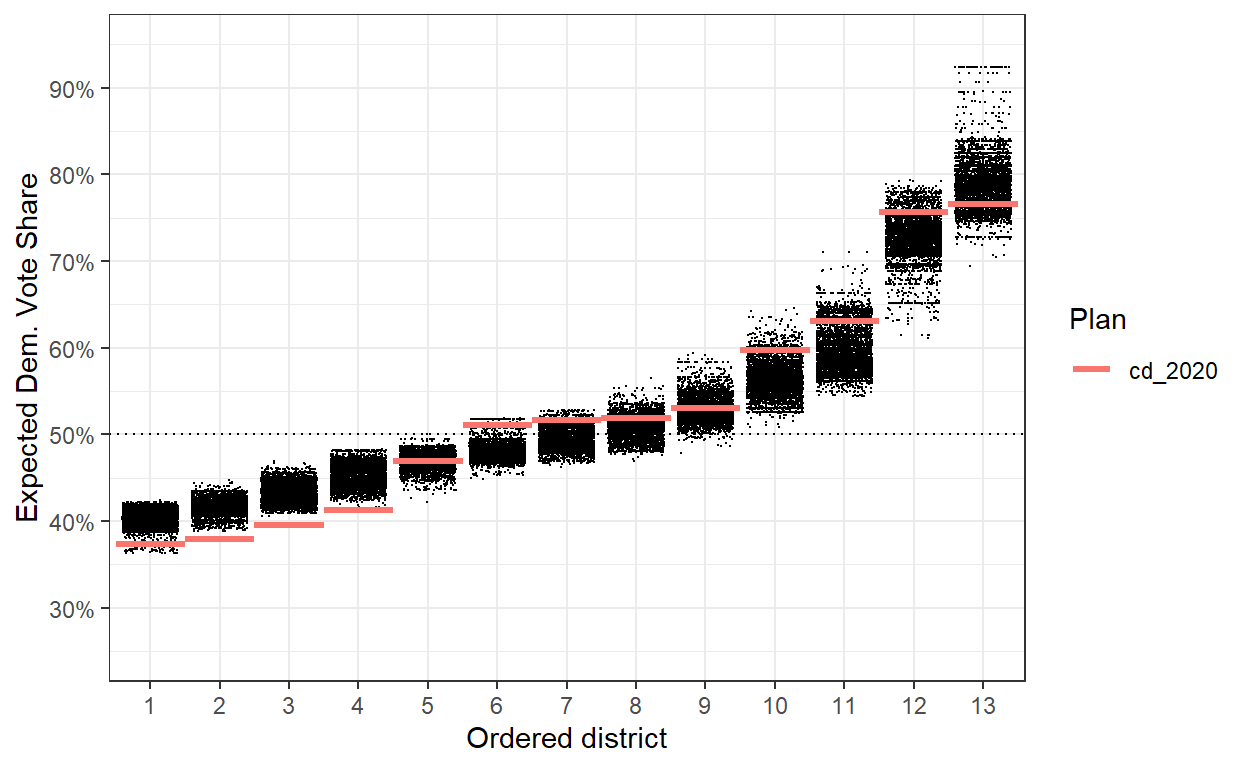
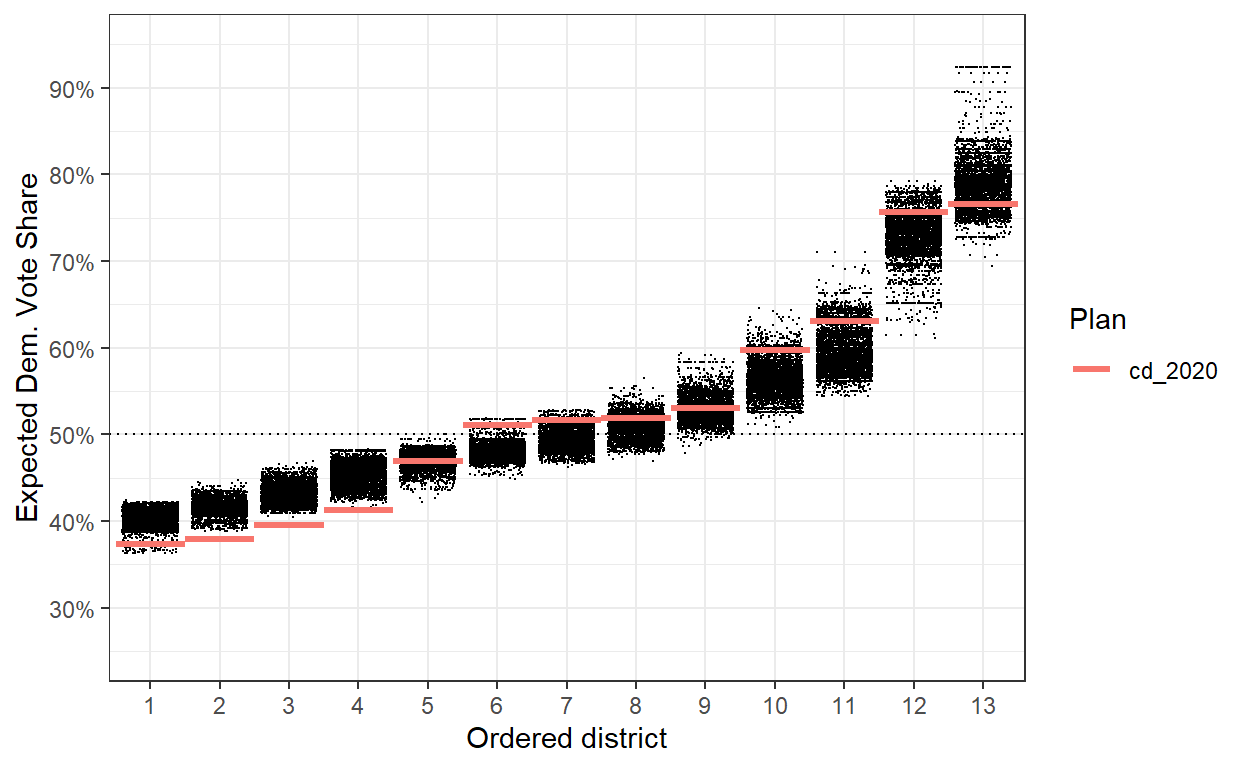
fix preview img

diff --git a/docs/posts/2023-03-18-redist-41/index.html b/docs/posts/2023-03-18-redist-41/index.html
@@ -106,7 +106,7 @@ code span.wa { color: #5e5e5e; font-style: italic; } /* Warning */
 <meta property="og:type" content="article"/>
 <meta property="og:description" content="A medium-sized release with more flexible plotting, better diagnostics, and&#10;speed improvements."/>
 <meta property="og:url" content="https://alarm-redist.github.io/posts/2023-03-18-redist-41/"/>
-<meta property="og:image" content="https://alarm-redist.github.io/posts/2023-03-18-redist-41/redist-41_files/figure-html5/unnamed-chunk-3-1.png"/>
+<meta property="og:image" content="https://alarm-redist.github.io/posts/2023-03-18-redist-41/redist-41_files/figure-html5/unnamed-chunk-13-1.png"/>
 <meta property="og:image:width" content="1248"/>
 <meta property="og:image:height" content="768"/>
 <meta property="og:locale" content="en_US"/>
@@ -117,7 +117,7 @@ code span.wa { color: #5e5e5e; font-style: italic; } /* Warning */
 <meta property="twitter:title" content="ALARM Project: redist 4.1"/>
 <meta property="twitter:description" content="A medium-sized release with more flexible plotting, better diagnostics, and&#10;speed improvements."/>
 <meta property="twitter:url" content="https://alarm-redist.github.io/posts/2023-03-18-redist-41/"/>
-<meta property="twitter:image" content="https://alarm-redist.github.io/posts/2023-03-18-redist-41/redist-41_files/figure-html5/unnamed-chunk-3-1.png"/>
+<meta property="twitter:image" content="https://alarm-redist.github.io/posts/2023-03-18-redist-41/redist-41_files/figure-html5/unnamed-chunk-13-1.png"/>
 <meta property="twitter:image:width" content="1248"/>
 <meta property="twitter:image:height" content="768"/>
 <meta property="twitter:site" content="@alarm_redist"/>
@@ -2626,7 +2626,7 @@ speed improvements.</p></p>
 </div>
 <p>This gives us a fun plot to work with, though this might be best suited for much larger plot areas.</p>
 <div class="layout-chunk" data-layout="l-body">
-<p><img src="redist-41_files/figure-html5/unnamed-chunk-13-1.png" width="624" /></p>
+<p><img src="redist-41_files/figure-html5/unnamed-chunk-13-1.png" width="624" data-distill-preview=1 /></p>
 </div>
 <h1 id="better-diagnostics-for-summary.redist_plans">Better Diagnostics for <code>summary.redist_plans()</code></h1>
 <p>Like above, let’s get some simulated plans from the <a href="https://alarm-redist.org/posts/2022-11-01-50statessimulations/">50-State Redistricting Simulations</a>. We can get a state like Nevada, which has fewer districts and shorter summary.</p>
@@ -2714,7 +2714,7 @@ sos_18_rep_ceg pre_20_dem_bid pre_20_rep_tru         arv_16
            nrv        ndshare          e_dvs         pr_dem 
          1.003          1.003          1.003          1.001 
          e_dem          pbias           egap       bad_rhat 
-         1.002          1.000          1.001        ❌1.222 
+         1.002          1.000          1.001        ❌1.231 
 
          Eff. samples (%) Acc. rate Log wgt. sd  Max. unique Est. k 
 Split 1     2,215 (88.6%)     19.7%        0.93 1,583 (100%)     10 

diff --git a/_posts/2023-03-18-redist-41/redist-41.html b/_posts/2023-03-18-redist-41/redist-41.html
@@ -1599,7 +1599,7 @@ speed improvements.</p></p>
 </div>
 <p>This gives us a fun plot to work with, though this might be best suited for much larger plot areas.</p>
 <div class="layout-chunk" data-layout="l-body">
-<p><img src="redist-41_files/figure-html5/unnamed-chunk-13-1.png" width="624" /></p>
+<p><img src="redist-41_files/figure-html5/unnamed-chunk-13-1.png" width="624" data-distill-preview=1 /></p>
 </div>
 <h1 id="better-diagnostics-for-summary.redist_plans">Better Diagnostics for <code>summary.redist_plans()</code></h1>
 <p>Like above, let’s get some simulated plans from the <a href="https://alarm-redist.org/posts/2022-11-01-50statessimulations/">50-State Redistricting Simulations</a>. We can get a state like Nevada, which has fewer districts and shorter summary.</p>
@@ -1687,7 +1687,7 @@ sos_18_rep_ceg pre_20_dem_bid pre_20_rep_tru         arv_16
            nrv        ndshare          e_dvs         pr_dem 
          1.003          1.003          1.003          1.001 
          e_dem          pbias           egap       bad_rhat 
-         1.002          1.000          1.001        ❌1.222 
+         1.002          1.000          1.001        ❌1.231 
 
          Eff. samples (%) Acc. rate Log wgt. sd  Max. unique Est. k 
 Split 1     2,215 (88.6%)     19.7%        0.93 1,583 (100%)     10 

diff --git a/docs/index.html b/docs/index.html
@@ -2648,7 +2648,7 @@ function init_posts_list() {
 </div>
 </div>
 <div class="thumbnail">
-<img src="posts/2023-03-18-redist-41/redist-41_files/figure-html5/unnamed-chunk-3-1.png"/>
+<img src="posts/2023-03-18-redist-41/redist-41_files/figure-html5/unnamed-chunk-13-1.png"/>
 </div>
 <div class="description">
 <h2>redist 4.1</h2>
